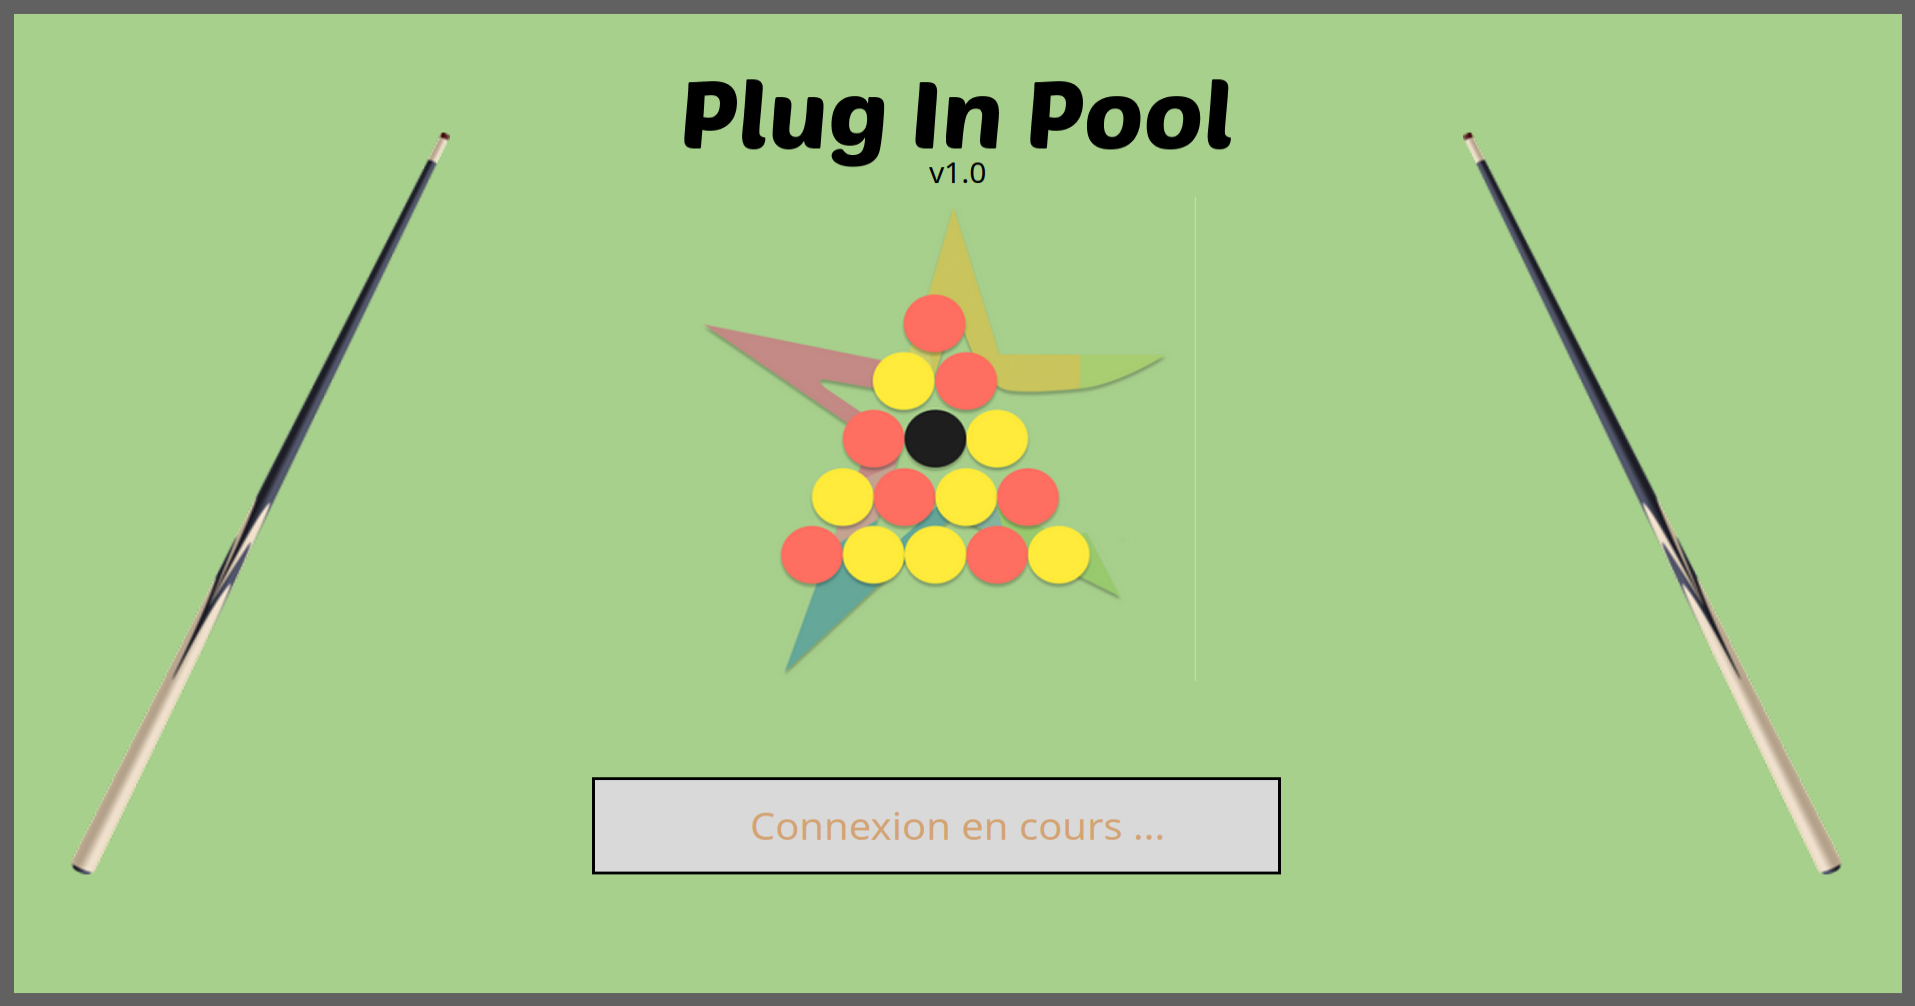
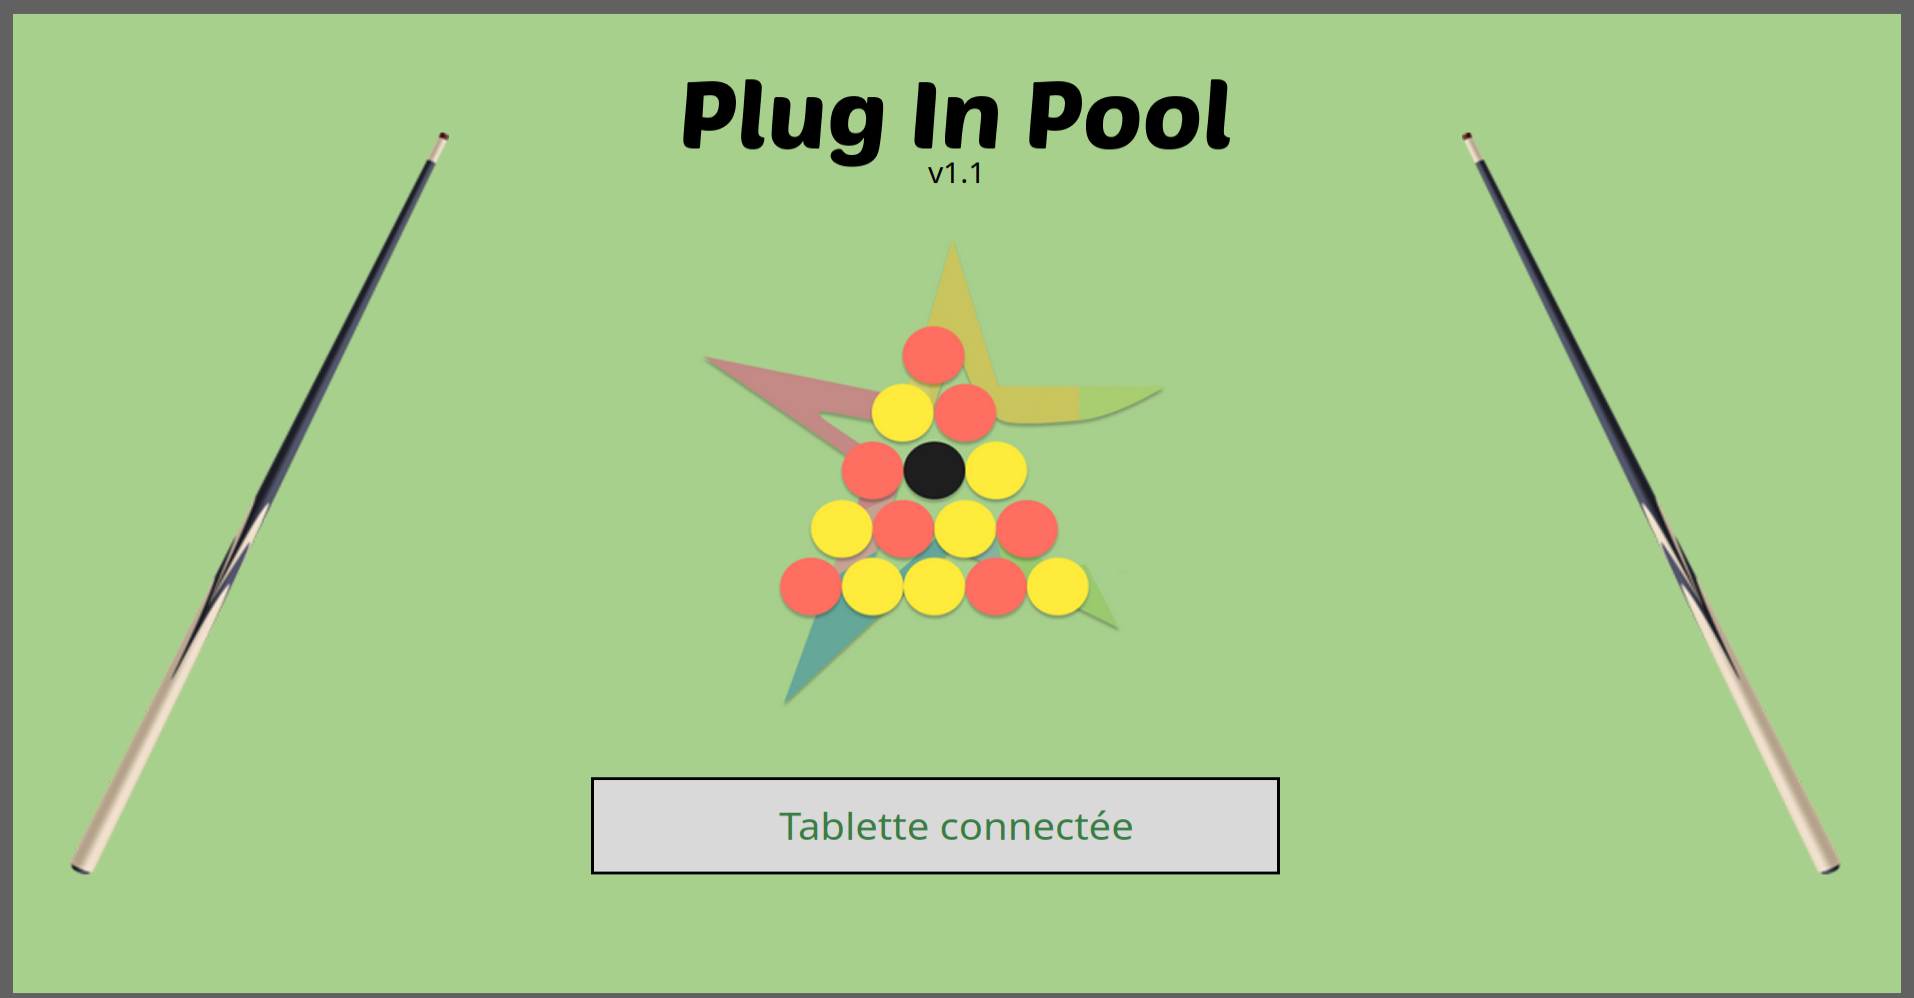
Mettre a jour application et README

diff --git a/plug-in-pool-visualisation/pluginpool.cpp b/plug-in-pool-visualisation/pluginpool.cpp
@@ -204,21 +204,21 @@ void PlugInPool::terminerPartie(int idPartie, int idJoueurGagnant)
     EcranFin* ecranFin      = ecranPlugInPool->getEcranFin();
     QString   prenomGagnant = match->getPrenomJoueur(idJoueurGagnant);
 
-    QString prenomJoueurUn   = match->getPrenomJoueur(0);
-    QString prenomJoueurDeux = match->getPrenomJoueur(1);
+    QString prenomJoueurUn   = match->getPrenomJoueur(ID_JOUEUR_1);
+    QString prenomJoueurDeux = match->getPrenomJoueur(ID_JOUEUR_2);
 
-    QString tirsJoueurUn   = QString::number(match->getTirsJoueur(0));
-    QString tirsJoueurDeux = QString::number(match->getTirsJoueur(1));
+    QString tirsJoueurUn   = QString::number(match->getTirsJoueur(ID_JOUEUR_1));
+    QString tirsJoueurDeux = QString::number(match->getTirsJoueur(ID_JOUEUR_2));
 
     QString billesBlanchesEmpocheesJoueurUn =
-      QString::number(match->getBillesBlanchesEmpocheesJoueur(0));
+      QString::number(match->getBillesBlanchesEmpocheesJoueur(ID_JOUEUR_1));
     QString billesBlanchesEmpocheesJoueurDeux =
-      QString::number(match->getBillesBlanchesEmpocheesJoueur(1));
+      QString::number(match->getBillesBlanchesEmpocheesJoueur(ID_JOUEUR_2));
 
     QString billesEmpocheesJoueurUn =
-      QString::number(match->getBillesEmpocheesJoueur(0));
+      QString::number(match->getBillesEmpocheesJoueur(ID_JOUEUR_1));
     QString billesEmpocheesJoueurDeux =
-      QString::number(match->getBillesEmpocheesJoueur(1));
+      QString::number(match->getBillesEmpocheesJoueur(ID_JOUEUR_2));
 
     ecranFin->afficherJoueurGagnant(prenomGagnant + " a gagné cette partie");
     ecranFin->afficherStatistiques(prenomJoueurUn,
@@ -261,16 +261,15 @@ void PlugInPool::afficherDureePartie()
 {
     qDebug() << Q_FUNC_INFO;
     EcranPartie* ecranPartie = ecranPlugInPool->getEcranPartie();
-    EcranFin* ecranFin      = ecranPlugInPool->getEcranFin();
-    int minutes  = ecranPartie->getSecondesEcoulees() / MINUTE;
-    int secondes = ecranPartie->getSecondesEcoulees() % MINUTE;
+    EcranFin*    ecranFin    = ecranPlugInPool->getEcranFin();
+    int          minutes     = ecranPartie->getSecondesEcoulees() / MINUTE;
+    int          secondes    = ecranPartie->getSecondesEcoulees() % MINUTE;
 
     QString temps =
       QString("%1:%2")
         .arg(minutes, LARGEUR_MINUTE, BASE_DECIMALE, QChar('0'))
         .arg(secondes, LARGEUR_SECONDE, BASE_DECIMALE, QChar('0'));
     ecranFin->afficherDureePartie(temps);
-
 }
 
 void PlugInPool::changerEcranMatch()

diff --git a/plug-in-pool-visualisation/ecranfin.cpp b/plug-in-pool-visualisation/ecranfin.cpp
@@ -5,7 +5,7 @@ EcranFin::EcranFin(QWidget* parent) : QObject(parent), ecran(parent)
 {
     qDebug() << Q_FUNC_INFO << this;
 
-    affichageVersion       = new QLabel("v1.0", ecran);
+    affichageVersion       = new QLabel("v1.1", ecran);
     affichageJoueurGagnant = new QLabel("Aucun joueur gagnant", ecran);
 
     affichageJoueurUn                        = new QLabel("Joueur 1", ecran);
@@ -18,7 +18,7 @@ EcranFin::EcranFin(QWidget* parent) : QObject(parent), ecran(parent)
     affichageBillesBlanchesEmpocheesJoueurDeux = new QLabel(ecran);
     affichageEmpochagesReussisJoueurDeux       = new QLabel(ecran);
 
-    affichageDureePartie = new QLabel("00:00",ecran);
+    affichageDureePartie = new QLabel("00:00", ecran);
 
     affichageJoueurUn->setAlignment(Qt::AlignCenter);
     affichageJoueurDeux->setAlignment(Qt::AlignCenter);
@@ -29,7 +29,6 @@ EcranFin::EcranFin(QWidget* parent) : QObject(parent), ecran(parent)
     affichageEmpochagesReussisJoueurUn->setAlignment(Qt::AlignCenter);
     affichageEmpochagesReussisJoueurDeux->setAlignment(Qt::AlignCenter);
     affichageDureePartie->setAlignment(Qt::AlignCenter);
-
 
     affichageVersion->setObjectName("affichageVersion");
     affichageJoueurGagnant->setObjectName("affichageJoueurGagnant");
@@ -56,8 +55,7 @@ EcranFin::EcranFin(QWidget* parent) : QObject(parent), ecran(parent)
     QHBoxLayout* espaceStatistiques           = new QHBoxLayout();
     QVBoxLayout* espaceStatistiquesJoueurUn   = new QVBoxLayout();
     QVBoxLayout* espaceStatistiquesJoueurDeux = new QVBoxLayout();
-    QHBoxLayout* espaceDureePartie = new QHBoxLayout();
-
+    QHBoxLayout* espaceDureePartie            = new QHBoxLayout();
 
     espaceVersion->addStretch();
     espaceVersion->addWidget(affichageVersion);

diff --git a/plug-in-pool-visualisation/ecranfinmatch.cpp b/plug-in-pool-visualisation/ecranfinmatch.cpp
@@ -4,7 +4,7 @@ EcranFinMatch::EcranFinMatch(QWidget* parent) : QWidget(parent), ecran(parent)
 {
     qDebug() << Q_FUNC_INFO << this;
 
-    affichageVersion       = new QLabel("v1.0", ecran);
+    affichageVersion       = new QLabel("v1.1", ecran);
     affichageJoueurGagnant = new QLabel("Aucun joueur gagnant", ecran);
     affichageScores        = new QLabel("Aucun Score", ecran);
 

diff --git a/plug-in-pool-visualisation/ecranaccueil.cpp b/plug-in-pool-visualisation/ecranaccueil.cpp
@@ -7,7 +7,7 @@ EcranAccueil::EcranAccueil(QWidget* parent) : QObject(parent), ecran(parent)
 {
     qDebug() << Q_FUNC_INFO << this;
 
-    affichageVersion   = new QLabel("v1.0", ecran);
+    affichageVersion   = new QLabel("v1.1", ecran);
     connexionBluetooth = new QLabel("Connexion en cours ...", ecran);
 
     affichageVersion->setObjectName("affichageVersion");

diff --git a/plug-in-pool-visualisation/pluginpool.h b/plug-in-pool-visualisation/pluginpool.h
@@ -10,6 +10,9 @@
 #define TEMPS_COMPTE_A_REBOURS_DEBUT_MATCH 5
 #define RASPBERRY_PI
 
+#define ID_JOUEUR_1 0
+#define ID_JOUEUR_2 1
+
 class CommunicationBluetooth;
 class Match;
 class EcranPlugInPool;

diff --git a/README.md b/README.md
@@ -337,8 +337,8 @@ Sur l'écran, les joueurs pourront visualiser en continu :
   <tr>
     <td>Visualiser les données du match</td>
     <td style="text-align: center;"></td>
-    <td style="text-align: center;">x</td>
     <td style="text-align: center;"></td>
+    <td style="text-align: center;">x</td>
   </tr>
   <tr>
     <td>Dialoguer avec le terminal mobile</td>
